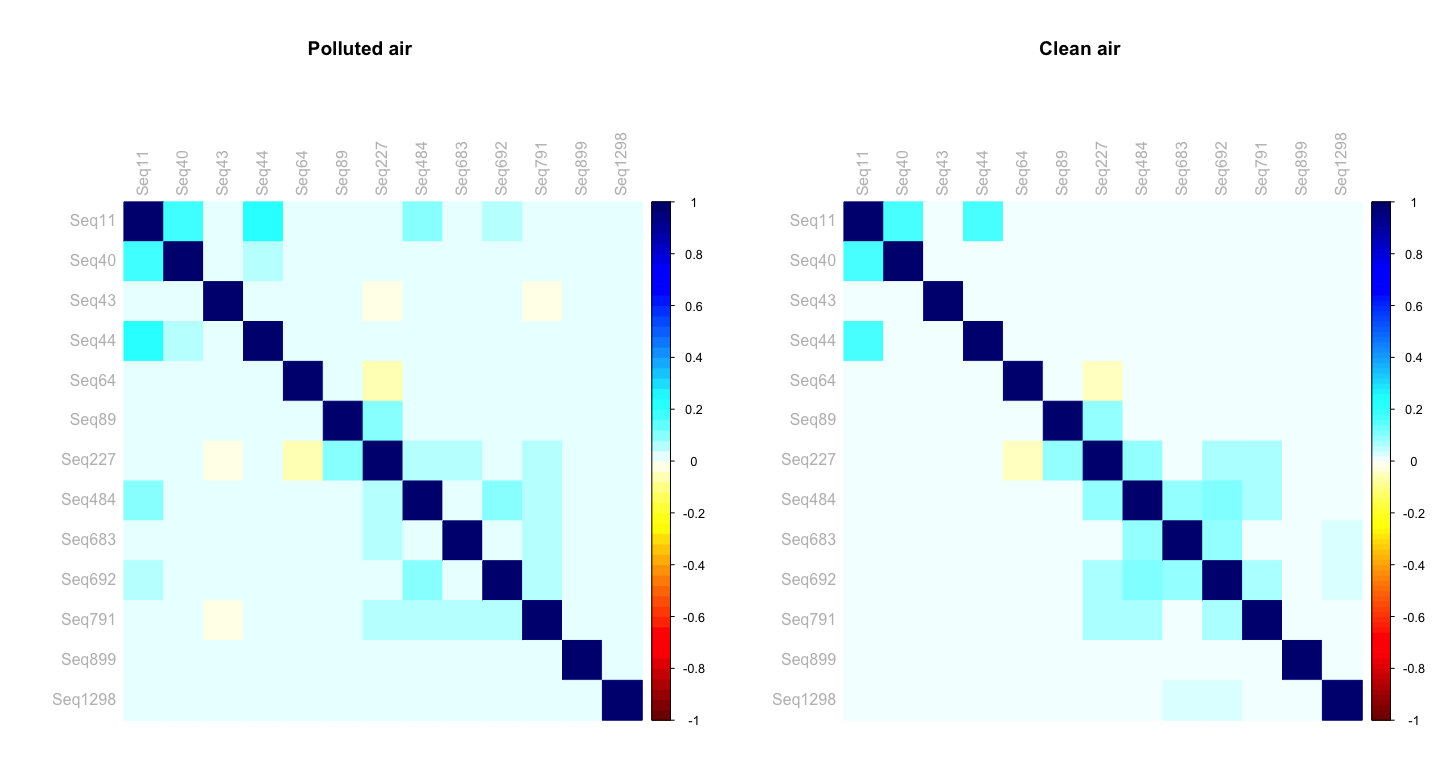
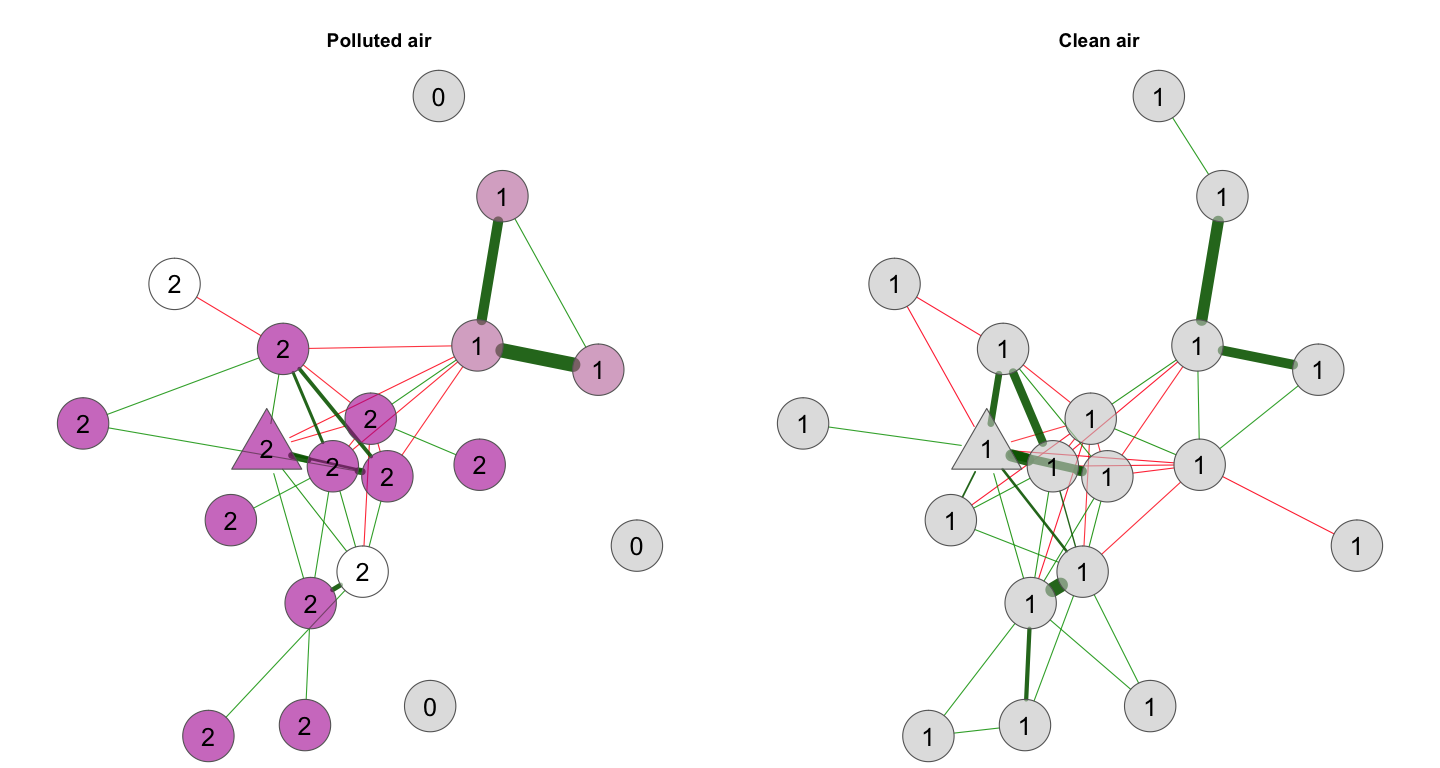
net plot genus pollution

diff --git a/5_networks/5.2.1_Networks_viz_Gen.md b/5_networks/5.2.1_Networks_viz_Gen.md
@@ -1,4 +1,4 @@
-Networks viz Genus (smoking)
+Networks viz Genus (pollution)
 ================
 
 ## NetCoMi
@@ -54,8 +54,8 @@ plot(props_W,
      borderCol = "gray40", highlightHubs = FALSE, nodeSize = "normCounts", 
      nodeSizeSpread = 1, cexNodes = 5, cexTitle = .8,
      edgeTranspLow = 70, edgeTranspHigh = 50,
-     rmSingles = "inboth",
-     mar = c(3,5,3,2), groupNames = c("Smoking", "Non-smoking"))
+     # rmSingles = "inboth",
+     mar = c(3,5,3,2), groupNames = c("Polluted air", "Clean air"))
 legend("top", 
        inset = .05, title = "phylum:",
        legend=levels(phyl_ps_prune), ncol = 2,
@@ -66,7 +66,7 @@ legend("bottom",
        col=c("green","red"), bty="n", horiz = TRUE) 
 ```
 
-![](5.2.1_Networks_viz_Gen_smoke_files/figure-gfm/unnamed-chunk-4-1.png)<!-- -->
+![](5.2.1_Networks_viz_Gen_files/figure-gfm/unnamed-chunk-4-1.png)<!-- -->
 
 ## Network properties
 
@@ -75,10 +75,10 @@ summary(props_W)[[1]]
 ```
 
     ##                       group '1' group '2'
-    ## average path length     1.46162   2.13187
-    ## clustering coeff.       0.47545   0.45306
-    ## modularity              0.55637   0.54597
-    ## edge density            0.00904   0.01007
+    ## average path length     3.19231   2.56611
+    ## clustering coeff.       0.36027   0.29231
+    ## modularity              0.60138   0.61070
+    ## edge density            0.01506   0.01433
     ## vertex connectivity     0.00000   0.00000
     ## edge connectivity       0.00000   0.00000
 
@@ -89,14 +89,14 @@ summary(props_W)[[2]]
 ```
 
     ## [[1]]
-    ##                                      
-    ## name:  0  1  2 3 4 5 6 7 8 9 10 11 12
-    ## freq: 83 13 14 2 2 2 6 5 4 2  3  2  2
+    ##                                                    
+    ## name:  0  1  2  3 4  5 6 7 8 9 10 11 12 13 14 15 16
+    ## freq: 49 15 10 23 2 10 8 2 4 5  5  2  3  4  2  2  3
     ## 
     ## [[2]]
-    ##                                   
-    ## name:  0  1  2 3 4 5 6 7 8 9 10 11
-    ## freq: 79 19 13 2 8 2 2 3 5 2  2  3
+    ##                                                     
+    ## name:  0  1  2 3  4  5 6  7 8 9 10 11 12 13 14 15 16
+    ## freq: 49 11 16 2 18 15 2 10 2 6  4  4  2  2  2  2  2
 
 #### Vizualisation
 
@@ -106,11 +106,11 @@ nclust_2 <- max(as.numeric(names(table(props_W$clustering$clust2))))+1
 nclust <- nclust_1 + nclust_2
 col <- sample(polychrome(nclust))
 
-# which(tax_table(ps_Genus_prune)[,"Genus"] == "Family_XIII_AD3011_group")
-# 24  40  53 105
+# which(tax_table(ps_Genus_prune)[,"Genus"] == "Marvinbryantia")
+# 116
 
 shapeVec <- rep(1, ncol(otu_table(ps_Genus_prune)))
-shapeVec[c(24, 40, 53, 105)] <- 2
+shapeVec[116] <- 2
 names(shapeVec) <- names(phyl_ps_prune)
 
 plot_cluster <- plot(props_W,
@@ -129,10 +129,10 @@ plot_cluster <- plot(props_W,
      featVecShape = shapeVec,
      # rmSingles = "inboth",
      edgeTranspLow = 10, edgeTranspHigh = 10,
-     groupNames = c("Smoking", "Non-smoking"))
+     groupNames = c("Polluted air", "Clean air"))
 ```
 
-![](5.2.1_Networks_viz_Gen_smoke_files/figure-gfm/unnamed-chunk-7-1.png)<!-- -->
+![](5.2.1_Networks_viz_Gen_files/figure-gfm/unnamed-chunk-7-1.png)<!-- -->
 
 #### Shared nodes among modules
 
@@ -166,8 +166,13 @@ layout_bi_rows <- layout_as_bipartite(g_sum, hgap = 50, vgap = 60, maxiter = 100
 legend_cats <- data.frame(size_circle = V(g_sum)$com_size/2,
                           size_text = V(g_sum)$com_size)
 legend_cats <- legend_cats[order(legend_cats$size_circle), ]
-# dim(legend_cats)
-legend_cats <- legend_cats[c(1,20,24),]
+dim(legend_cats)
+```
+
+    ## [1] 34  2
+
+``` r
+legend_cats <- legend_cats[c(1,25,34),]
 
 # order by vertex size
 par(mfrow=c(1,1))
@@ -176,7 +181,7 @@ plot(g_sum, vertex.size = V(g_sum)$com_size/2, edge.width=E(g_sum)$weight/5,
      vertex.label.dist=5, vertex.label.degree = pi*V(g_sum)$type, 
      margin = -.2, asp = 2, edge.arrow.size=.7)
 
-legend(x=-2.5, y=-1.1, c("W = 0 (Smoking)", "W = 1 (Non-smoking)"), pch=21,
+legend(x=-2.5, y=-1.1, c("W = 0 (Polluted)", "W = 1 (Clean)"), pch=21,
        col="#777777", pt.bg=c("#66B0FF","#1CFFCE"), pt.cex=2, cex=.8, bty="n", ncol=1)
 
 legend(x=.1, y=-1.1, legend=legend_cats$size_text, pt.cex=legend_cats$size_circle/11, bty="n", cex = .8,
@@ -184,12 +189,12 @@ legend(x=.1, y=-1.1, legend=legend_cats$size_text, pt.cex=legend_cats$size_circl
        title = "Module size (nb. of nodes):")
 ```
 
-![](5.2.1_Networks_viz_Gen_smoke_files/figure-gfm/unnamed-chunk-8-1.png)<!-- -->
+![](5.2.1_Networks_viz_Gen_files/figure-gfm/unnamed-chunk-8-1.png)<!-- -->
 
-#### Module 2 split (polluted air)
+#### Module 3 split (polluted air)
 
 ``` r
-names_clust <- as.character(names(which(props_W$clustering$clust1 == 2)))
+names_clust <- as.character(names(which(props_W$clustering$clust1 == 3)))
 # labels_phyl <- substr(as.character(phyl_ps_prune[names_clust]), 1, 3)
 col_module <- unique(plot_cluster$q1$Arguments$color[names_clust],
                      plot_cluster$q2$Arguments$color[names_clust])
@@ -212,49 +217,4 @@ plot(props_W,
      groupNames = c("Polluted air", "Clean air"))
 ```
 
-![](5.2.1_Networks_viz_Gen_smoke_files/figure-gfm/unnamed-chunk-9-1.png)<!-- -->
-\#\#\#\# Module 1 split (clean air)
-
-``` r
-names_clust <- as.character(names(which(props_W$clustering$clust2 == 1)))
-# labels_phyl <- substr(as.character(phyl_ps_prune[names_clust]), 1, 3)
-col_module <- unique(plot_cluster$q1$Arguments$color[names_clust],
-                     plot_cluster$q2$Arguments$color[names_clust])
-
-plot(props_W, 
-     sameLayout = TRUE, layoutGroup = 2, 
-     labels = list(props_W$clustering$clust1[names_clust], props_W$clustering$clust2[names_clust]), 
-     labelFont = 1, cexLabels = 1.5,
-     nodeColor = "cluster",
-     colorVec =  col_module,
-     sameClustCol = FALSE,
-     nodeTransp = 40, 
-     borderCol = "gray40", highlightHubs = FALSE,
-     nodeSize = "fix", cexNodes = 1, 
-     nodeFilter = "names",
-     nodeShape = c("circle", "triangle"),
-     featVecShape = shapeVec[names_clust],
-     nodeFilterPar = names_clust,
-     edgeTranspLow = 10, edgeTranspHigh = 10,
-     groupNames = c("Polluted air", "Clean air"))
-```
-
-![](5.2.1_Networks_viz_Gen_smoke_files/figure-gfm/unnamed-chunk-10-1.png)<!-- -->
-
-### Correlation structure of module 1 (clean air)
-
-``` r
-col1 <- colorRampPalette(c("#7F0000", "red", "#FF7F00", "yellow", "white",
-                           "cyan", "#007FFF", "blue", "#00007F"))
-
-cor_0 <- props_W$input$assoMat1[names_clust,names_clust]
-cor_1 <- props_W$input$assoMat2[names_clust,names_clust]
-
-par(mfrow = c(1,2))
-corrplot(cor_0, method = "color", tl.col = "grey", mar=c(0,0,5,0),
-         col = col1(50), title = "Polluted air")
-corrplot(cor_1, method = "color", tl.col = "grey", mar=c(0,0,5,0),
-         col = col1(100), title = "Clean air")
-```
-
-![](5.2.1_Networks_viz_Gen_smoke_files/figure-gfm/unnamed-chunk-11-1.png)<!-- -->
+![](5.2.1_Networks_viz_Gen_files/figure-gfm/unnamed-chunk-9-1.png)<!-- -->
